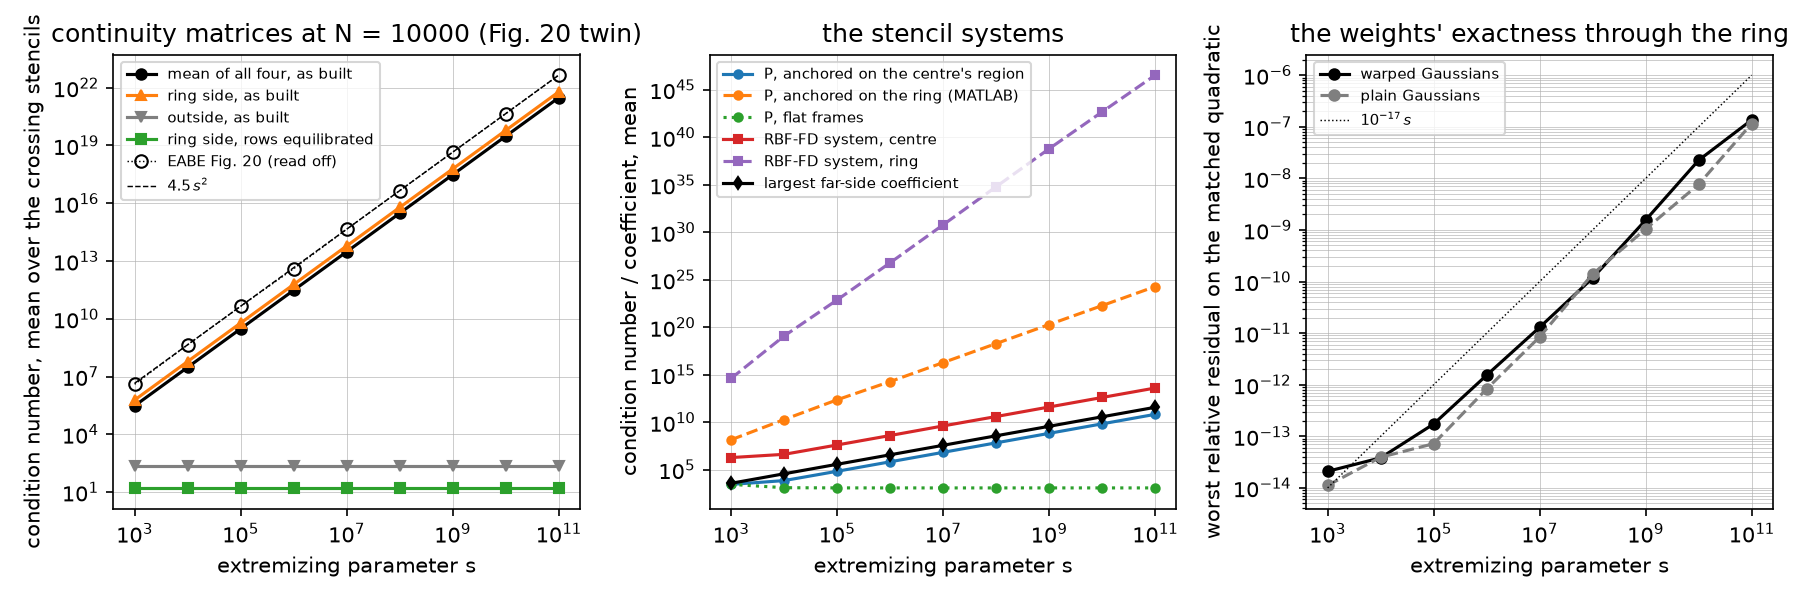
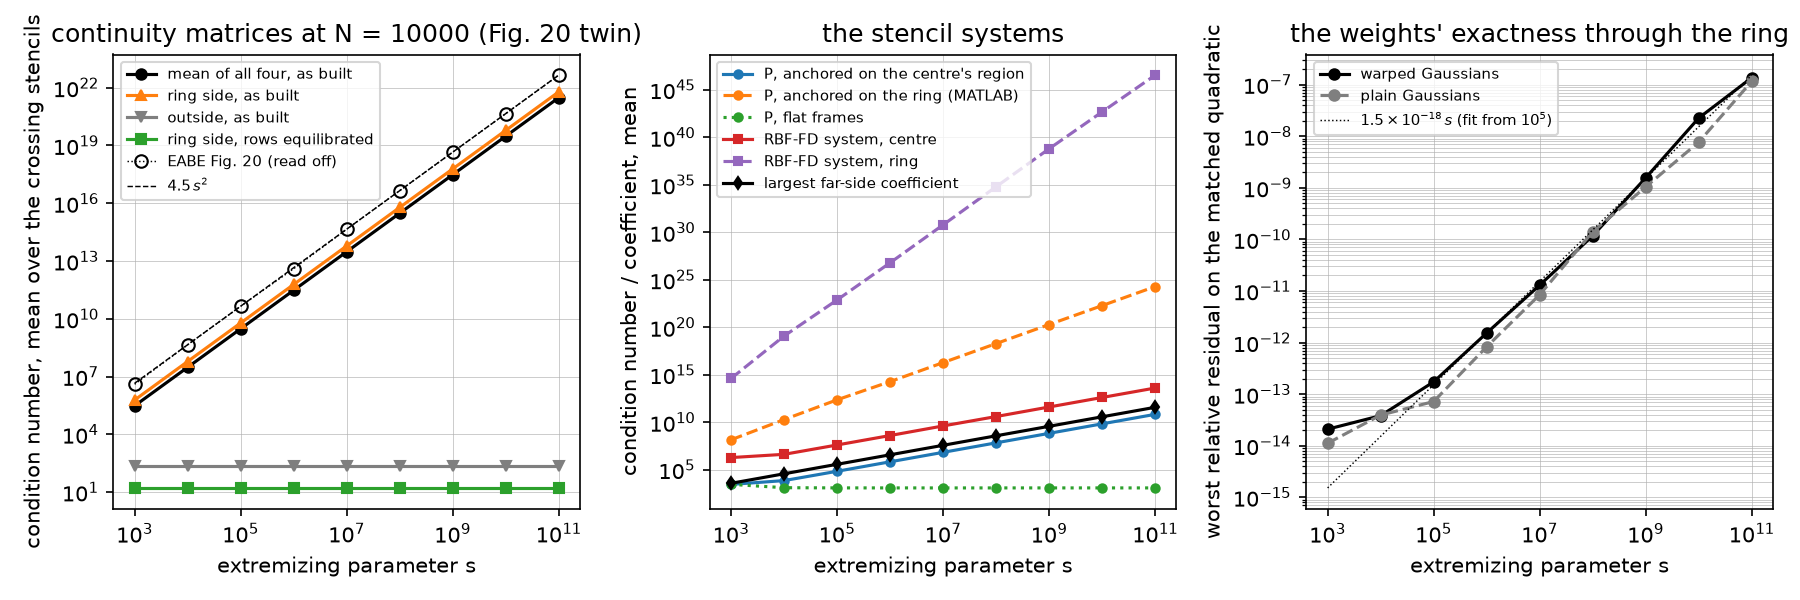
fix(heat2d): scope the 2500-node conditioning claim, fit the residual guide line, guard s, test the multi-ring walk and the far side's growth (#23)
The five /spar findings: the notes' "within 10 %" held only for the
s-dominated columns (the scale-dependent ones double with the stencil
radius, as the mechanism says) and now say so; the residual panel's guide
line is fitted from the data (1.5e-18 s) instead of a decade above it;
ring_radii refuses an s whose ring would reach the cooling circle; the
RingMode continuity test gains a four-ring chain with a thin ring mid-chain
and checks each radius from both rings' coefficients; a test pins the far
side's basis growing like s with curvature on and staying flat without,
and the notes label the derivation's constants as a hand derivation.

Claude-Session: https://claude.ai/code/session_01DVyAj9Cjm4arpVbLozusXW

Changed region(s): [[0.6844, 0.09, 0.9956, 0.84], [0.6844, 0.12, 0.7156, 0.15]]

diff --git a/tests/heat2d/test_exact.py b/tests/heat2d/test_exact.py
@@ -100,17 +100,34 @@ def test_layered_exact_refuses_malformed_layers():
 
 
 def test_ring_mode_is_continuous_with_its_flux_and_harmonic_on_every_ring():
-    for u in (ring_exact(), ring_exact(3), RingMode((0.2, 0.3), (2.0, 0.5, 1.0), 1)):
-        for r in u.radii:
-            below, above = r - 1e-13, r + 1e-13
-            assert u.radial(below) == pytest.approx(u.radial(above), abs=1e-9)
-            assert u.flux(below) == pytest.approx(u.flux(above), rel=1e-9)
+    # The last is a four-ring chain with a thin insulating ring in the middle
+    # (1e-6 wide at α = 1e-6 / 1.5, resistance 1.5): the increment walk's
+    # multi-hop path, which no case needs.
+    chain = RingMode((0.15, 0.3, 0.3 + 1e-6, 0.45), (1.0, 3.0, 1e-6 / 1.5, 1.0, 0.5))
+    for u in (
+        ring_exact(),
+        ring_exact(3),
+        RingMode((0.2, 0.3), (2.0, 0.5, 1.0), 1),
+        chain,
+    ):
+        # At each radius the ring above owns the point; the ring below is
+        # evaluated from its own pair (a probe at r − 1e-13 would already see
+        # the thin ring's climb, 4.5e5 per unit radius).
+        m = u.mode
+        for k, r in enumerate(u.radii):
+            a, b = u._coefficients[k]
+            assert a * r**m + b * r**-m == pytest.approx(u.radial(r), abs=1e-9)
+            flux_below = u.alphas[k] * m * (a * r ** (m - 1) - b * r ** (-m - 1))
+            assert flux_below == pytest.approx(u.flux(r), rel=1e-9)
         assert u.radial(u.scale_radius) == pytest.approx(1.0)
         # Harmonic: the five-point Laplacian vanishes to its own truncation.
         for x, y in ((0.55, 0.62), (0.3, 0.3), (0.72, 0.31), (0.1, 0.9)):
             s = 2e-4
             lap = u(x + s, y) + u(x - s, y) + u(x, y + s) + u(x, y - s) - 4 * u(x, y)
             assert abs(lap / s**2) < 3e-5, (x, y, lap / s**2)
+    # Across the chain's thin ring the climb is the resistance times the flux.
+    climb = chain.radial(0.3 + 1e-6 + 1e-13) - chain.radial(0.3 - 1e-13)
+    assert climb == pytest.approx(1.5 * chain.flux(0.3 - 1e-13), rel=1e-4)
     u = ring_exact()
     # Inside it is the harmonic polynomial Re (x + iy)²; across the ring R
     # climbs by about m (α_out / α_ring) (width) r: 1.05 against 0.12 inside.

diff --git a/tests/heat2d/test_interface.py b/tests/heat2d/test_interface.py
@@ -642,6 +642,36 @@ def test_stencil_weights_lose_digits_like_s_through_a_thin_ring(s, bound):
     assert worst < bound, worst
 
 
+def test_far_side_basis_grows_like_s_with_curvature_only():
+    # E2.9's mechanism, the measurable part: across the ring from the centre
+    # the translated basis carries coefficients of order s with curvature on
+    # (the ring polynomial's O(s²) normal terms couple through the curvature
+    # and the frame shift between the circles) and none of it with the flat
+    # frames; port notes §2.9. Medians over a few crossing stencils.
+    far = {}
+    for s in (1e6, 1e9):
+        inner, outer = ring_radii(s)
+        band = Band(
+            Circle(inner), Circle(outer), Constant2D(1 / (1.5 * s)), Constant2D(1.0)
+        )
+        nodes = build_node_set(replace(case3(s), material=band), 1250, iterations=10)
+        region = band.region_index(nodes.x, nodes.y)
+        idx, _ = knn(nodes.xy, 30)
+        lo, hi = region[idx].min(axis=1), region[idx].max(axis=1)
+        triple = np.flatnonzero((lo == 0) & (hi == 2))[::25]
+        for curvature in (True, False):
+            values = []
+            for i in triple:
+                st = interface_stencil(nodes.xy[idx[i]], band, P, curvature=curvature)
+                other = [k for k in st.regions if k not in (1, st.anchor)][0]
+                values.append(np.abs(st.regions[other].coefficients).max())
+            far[s, curvature] = float(np.median(values))
+    assert 300 < far[1e9, True] / far[1e6, True] < 3000, far
+    assert far[1e6, True] > 1e3 and far[1e9, True] > 1e6, far
+    assert far[1e6, False] < 1e3 and far[1e9, False] < 1e3, far
+    assert far[1e9, False] == pytest.approx(far[1e6, False], rel=0.05)
+
+
 def test_interface_stencil_basis_takes_the_band_anchoring():
     # The band-anchored basis (the MATLAB's) spans the centre-anchored one's
     # space; the polynomial block is much worse conditioned that way (E2.9).

diff --git a/scripts/heat2d_extremes.py b/scripts/heat2d_extremes.py
@@ -899,7 +899,18 @@ def figure_conditioning(rows: list[dict[str, float]]):
         markersize=5,
         label="plain Gaussians",
     )
-    ax.loglog(s, 1e-17 * s, "k:", linewidth=0.7, label=r"$10^{-17}\,s$")
+    # The guide is the fitted line ∝ s through the data from s = 10⁵ on, where
+    # the worst residual has left the rounding floor of the s = 10³ chain.
+    fit = np.array([r["residual-curved"] for r in rows if r["s"] >= 1e5])
+    coefficient = float(np.exp(np.mean(np.log(fit / s[s >= 1e5]))))
+    mantissa, exponent = f"{coefficient:.1e}".split("e")
+    ax.loglog(
+        s,
+        coefficient * s,
+        "k:",
+        linewidth=0.7,
+        label=rf"${mantissa}\times10^{{{int(exponent)}}}\,s$ (fit from $10^5$)",
+    )
     ax.set_xlabel("extremizing parameter s")
     ax.set_ylabel("worst relative residual on the matched quadratic")
     ax.set_title("the weights' exactness through the ring")

diff --git a/src/heat_interfaces/heat2d/domain.py b/src/heat_interfaces/heat2d/domain.py
@@ -440,7 +440,12 @@ def ring_radii(s: float = CASE3_S) -> tuple[float, float]:
     """
     if not s > 0.0:
         raise ValueError("the extremizing parameter s must be positive")
-    return (0.35 - 1.0 / s, 0.35)
+    inner = 0.35 - 1.0 / s
+    if not inner > COOLING_RADIUS:
+        raise ValueError(
+            "the ring 0.35 - 1/s must lie outside the cooling circle: s > 1/0.3"
+        )
+    return (inner, 0.35)
 
 
 def case3(s: float = CASE3_S) -> Domain:

diff --git a/tests/heat2d/test_domain.py b/tests/heat2d/test_domain.py
@@ -225,6 +225,9 @@ def test_case3_at_s_is_eq_40_and_recovers_case_3_at_1000():
     np.testing.assert_array_equal(m.alpha(x, y)[1:], 1.0)
     with pytest.raises(ValueError, match="positive"):
         ring_radii(0.0)
+    with pytest.raises(ValueError, match="cooling circle"):
+        ring_radii(3.0)  # 0.35 - 1/3 < 0.05
+    assert ring_radii(4.0) == (0.35 - 0.25, 0.35)
 
 
 def test_case3_rows_straddle_a_ring_a_billionth_wide():

diff --git a/docs/port-notes.md b/docs/port-notes.md
@@ -1804,7 +1804,12 @@ median residual over the stencils (warp on / off): 1e3: 1.3e-16 / 1.5e-16; 1e4: 
   exponent 0.96) and the RBF-FD system's like s (1.9e6 to 4.1e13); with the
   flat frames the far side stays at 170 and `P` at 1.2e3–2.9e3 for every s.
   The O(s) is the curvature's doing, and it is exact arithmetic, not
-  rounding: along the inner circle the `D u` row reads
+  rounding. The measured part is the `far` column and
+  `test_far_side_basis_grows_like_s_with_curvature_only` (the far
+  coefficient a thousandfold between s = 10⁶ and 10⁹ with curvature on,
+  flat without it); the constants that follow are a derivation by hand,
+  orders of magnitude rather than measurements: along the inner circle the
+  `D u` row reads
   `12 c₄₀ + 2 c₂₂ + (2 c₂₁ + 6 c₀₃) f₂ = O(s)` with `c₀₃ ~ (1.5 s)²` from
   the flux of `D u` and `f₂ = κ scale / 2 ≈ −0.09`, so the ring's
   polynomial has `c₂₂ ~ 0.6 s²` in `ξ² η²`; the change of frame to the
@@ -1817,7 +1822,8 @@ median residual over the stencils (warp on / off): 1e3: 1.3e-16 / 1.5e-16; 1e4: 
   is read a ring's width away where the tangent frame has turned. The
   weights stay exact on the span but lose digits like s: the worst
   relative residual on the matched quadratic is 2.1e-14 at s = 10³ and
-  1.4e-7 at 10¹¹, about `1.4e-18 s` from s = 10⁵ on, warp on or off, and
+  1.4e-7 at 10¹¹, about `1.5e-18 s` from s = 10⁵ on (the figure's fitted
+  line), warp on or off, and
   the median over the stencils 1.3e-16 to 4.4e-10 (`4e-21 s`). So the
   translated basis is good to about seven figures at s = 10¹¹, three
   orders below the 2016 floor of 7e-4 and one above the stored geometry's.
@@ -2034,7 +2040,8 @@ of the ring; RMS / largest error, aware then blind):
 **Decisions (E2.9).**
 
 - `case3(s)` is eq. 40 at any s with `case3()` its s = 1000 (`ring_radii`,
-  `CASE3_S`); the straddling rows sit on the midline `0.35 − 0.5/s`, so the
+  `CASE3_S`; an s whose ring would reach the cooling circle, `s ≤ 1/0.3`,
+  is refused); the straddling rows sit on the midline `0.35 − 0.5/s`, so the
   ownership check of §2.7 (no node in the ring, the innermost pair
   straddling both circles) holds and is run on every node set and
   reference.
@@ -2071,9 +2078,13 @@ of the ring; RMS / largest error, aware then blind):
   is Fig. 14's curved line and reads 0.7–1.0× §2.7's reading of Fig. 14)
   and Fig. 20 (`FIG20`, about 4.5 s², ±40 %).
 - The driver's default is a 20,000-node reference per s, counts to 5000
-  and conditioning at 2500 nodes (4.5 min in all; the 2500-node
-  conditioning numbers are within 10 % of the 10,000-node ones above); the
-  tables above are the 160,000-node run.
+  and conditioning at 2500 nodes (4.5 min in all); the tables above are the
+  160,000-node run. At 2500 nodes the s-dominated columns, the matrices as
+  built and row-equilibrated and the ring-anchored `P`, are within 8 % of
+  the 10,000-node ones, while the far coefficient, the centre-anchored `P`
+  and system and the residual scale with the stencil radius and are about
+  twice as large there (the far coefficient 7.5e3 against 3.8e3 at
+  s = 10³), as the mechanism above says they should.
 - The ticket's "done when": both figures regenerate; the breakdown near
   s = 10¹¹ is not reproduced, every line being fourth order to the
   reference's floor, and its absence is explained above: the O(s²) of
